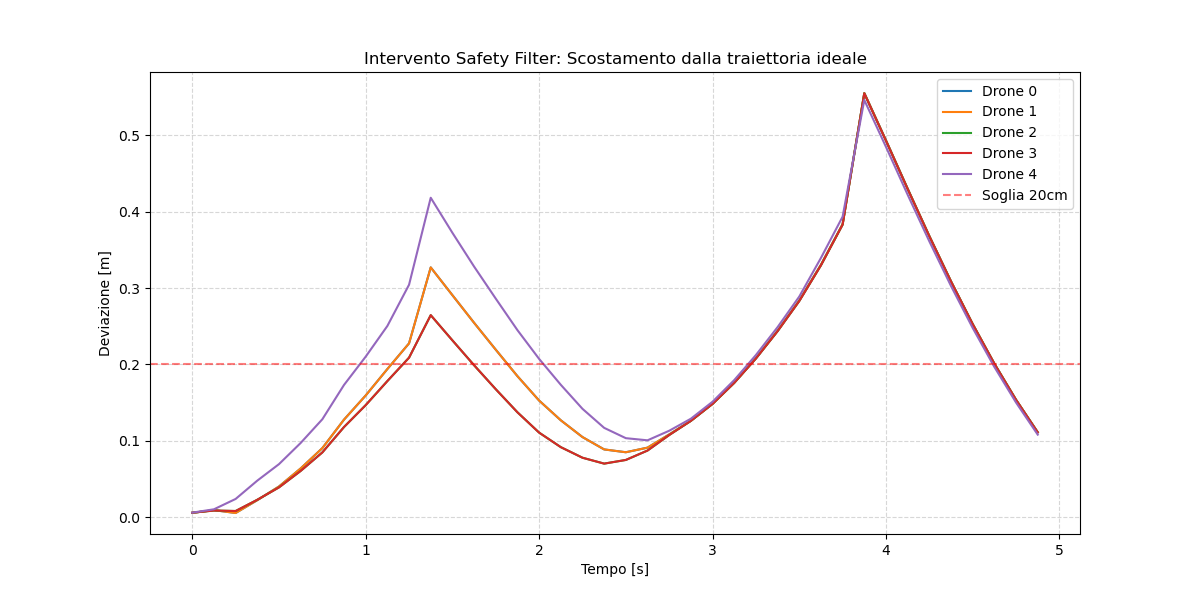
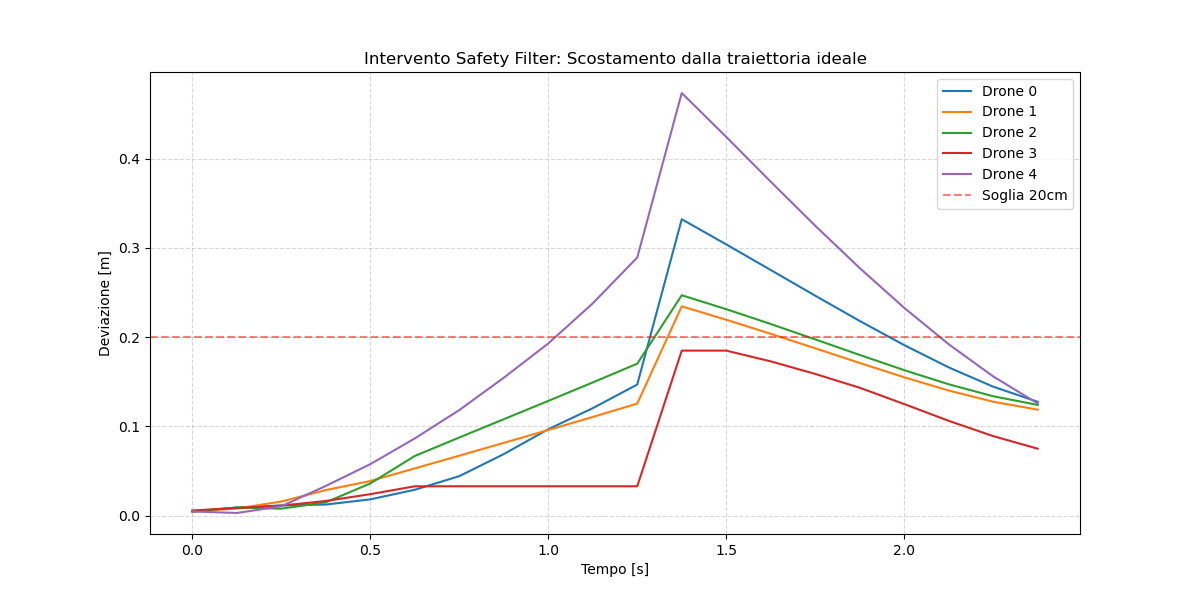
feat: integration

diff --git a/swarm_gpt/core/drone_controller.py b/swarm_gpt/core/drone_controller.py
@@ -4,7 +4,6 @@ from __future__ import annotations
 
 import logging
 import time
-from pathlib import Path
 from typing import TYPE_CHECKING, Any, Callable, List
 
 logging._srcfile = None  # Fix logging with rclpy when installed via conda
@@ -39,19 +38,47 @@ class DroneController:
             freq: The frequency at which the controller publishes the drone positions.
         """
         self.freq = freq
+        self._ros_running = False
+
+        # Initialize rclpy so we can check if crazyflie_server is running
         try:
             if not rclpy.ok():
                 rclpy.init()
-            self._ros_running = True
         except Exception:
-            self._ros_running = False
-        if not self._ros_running:
             logger.warning("ROS 2 is not running. The drone controller will not be initialized.")
             return
+
+        # Non-blocking check: skip Crazyswarm init if crazyflie_server is not up
+        # (Crazyswarm blocks indefinitely on wait_for_service() if the server is absent)
+        check_node = rclpy.create_node("swarmgpt_init_check")
+        try:
+            running_nodes = check_node.get_node_names()
+        except Exception:
+            running_nodes = []
+        finally:
+            check_node.destroy_node()
+
+        if "crazyflie_server" not in running_nodes:
+            logger.warning("crazyflie_server not running. The drone controller will not be initialized.")
+            return
+
+        # crazyflie_server is up — Crazyswarm calls rclpy.init() internally,
+        # patch it to a no-op since we already initialized above
+        _orig_init = rclpy.init
+        rclpy.init = lambda *a, **kw: None
+        try:
+            logger.info("Initializing crazyswarm2")
+            self.swarm = pycrazyswarm.Crazyswarm()
+            self._ros_running = True
+        except Exception as e:
+            logger.warning(f"Failed to initialize crazyswarm2: {e}")
+        finally:
+            rclpy.init = _orig_init
+
+        if not self._ros_running:
+            return
+
         self._node = Node("swarm_gpt_controller")
-        cfg_path = Path(__file__).resolve().parents[3] / "config" / "crazyflies.yaml"
-        logger.info("Initializing crazyswarm2")
-        self.swarm = pycrazyswarm.Crazyswarm(str(cfg_path))
         self.cmd_pos_pub = {
             id: self._node.create_publisher(Position, f"/cf{id}/cmd_position/", 1)
             for id in self.swarm.allcfs.crazyfliesById.keys()

diff --git a/swarm_gpt/core/choreographer.py b/swarm_gpt/core/choreographer.py
@@ -126,7 +126,17 @@ class Choreographer:
             cfg = yaml.safe_load(f)
         with open(Path(__file__).resolve().parents[1] / "data/settings.yaml", "r") as f:
             self.settings = yaml.safe_load(f)
-        robots = sorted(cfg["crazyflies"], key=lambda x: x["id"])
+        ros2_params = cfg.get("/crazyflie_server", {}).get("ros__parameters", {})
+        raw_robots = ros2_params.get("robots", cfg.get("crazyflies", {}))
+        # Support both ROS2 dict format and legacy ROS1 list format
+        if isinstance(raw_robots, dict):
+            robots = sorted(
+                [{"id": int(name.lstrip("cf")), "initialPosition": data["initial_position"]}
+                 for name, data in raw_robots.items()],
+                key=lambda x: x["id"],
+            )
+        else:
+            robots = sorted(raw_robots, key=lambda x: x["id"])
 
         for i, robot in enumerate(robots):
             self.agents[i] = int(robot["id"])
